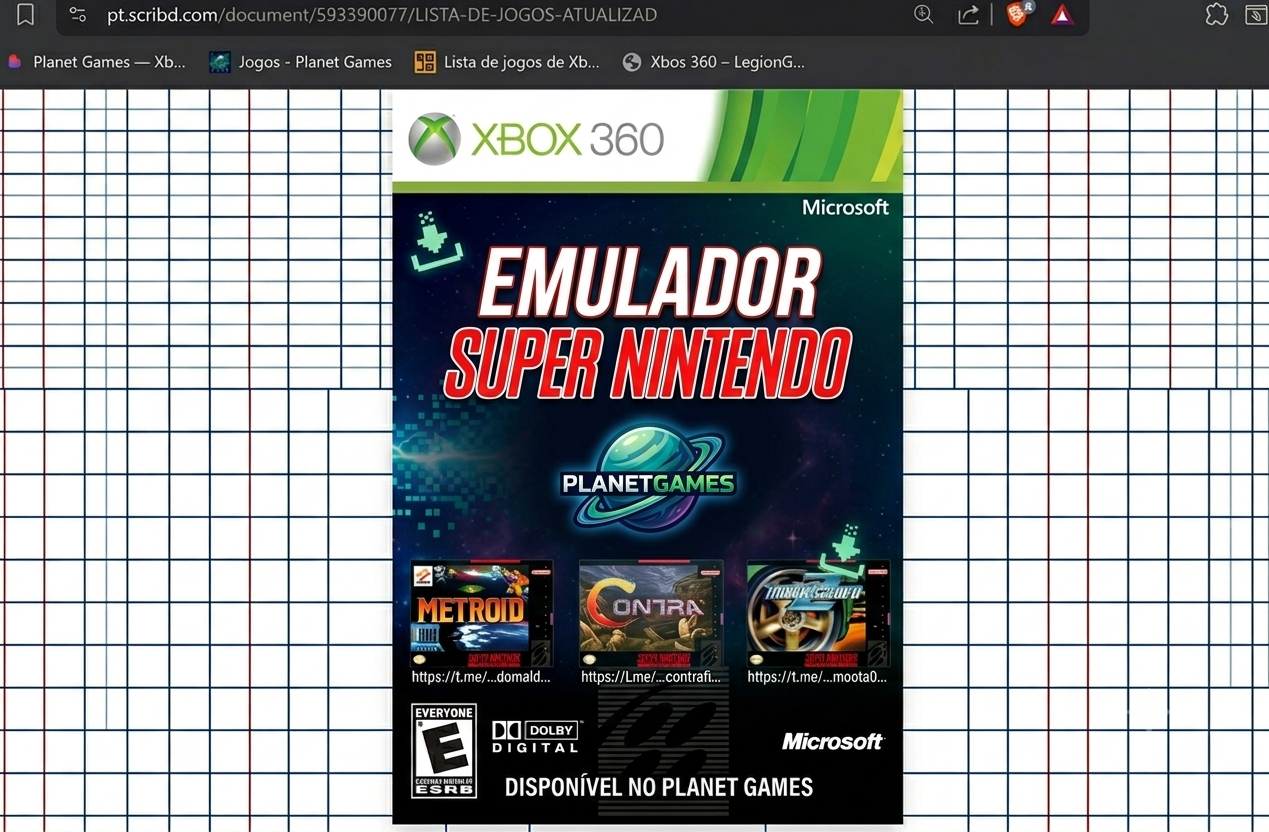
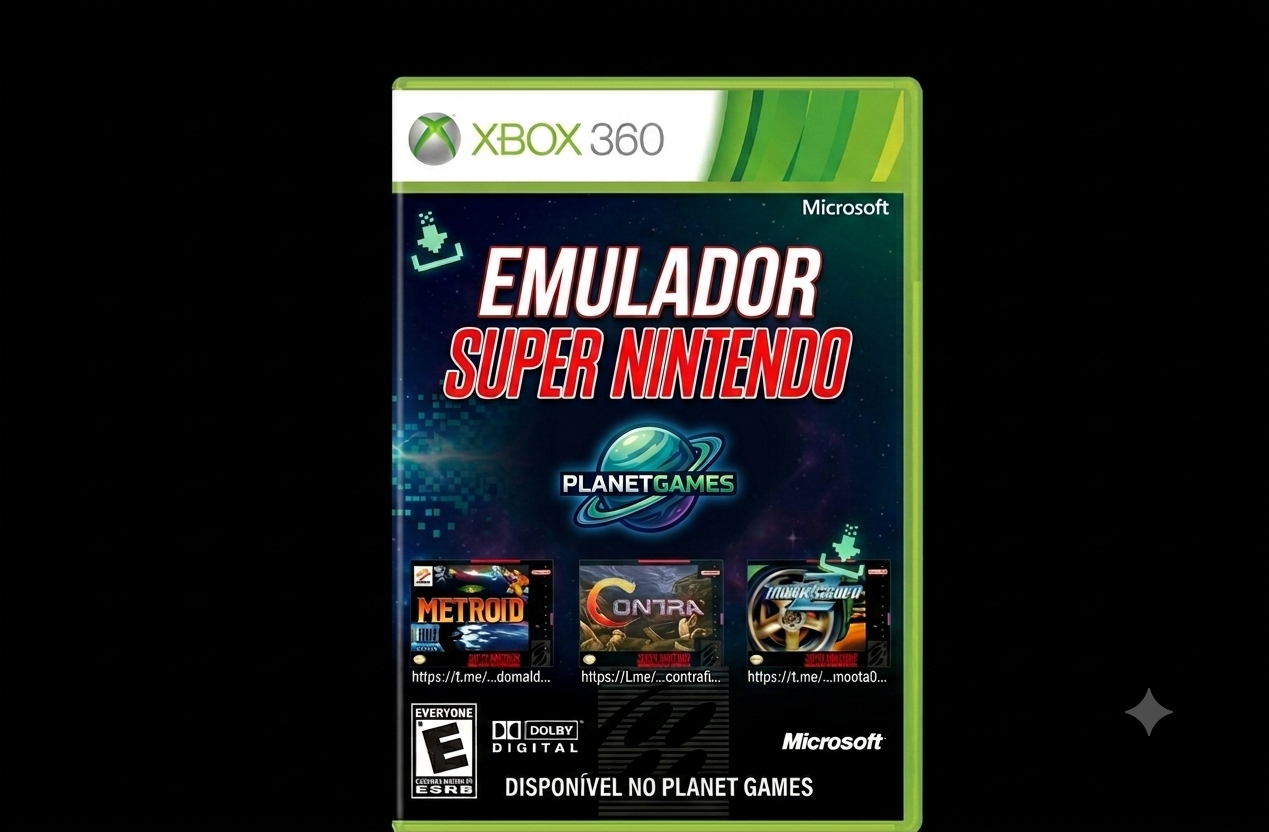
pagina inicial

diff --git a/app.py b/app.py
@@ -162,7 +162,7 @@ def jogos():
             "plataforma": "Xbox 360-Formato:XEX",
             "tamanho": "2.6 GB",
             "categoria": "emulador",
-            "imagem": "emulador super nintendo.jng",
+            "imagem": "emulador super nintendo.png",
             "link": "https://4br.me/gWP9d"
         }
     ] # Fecha corretamente a lista_de_jogos
